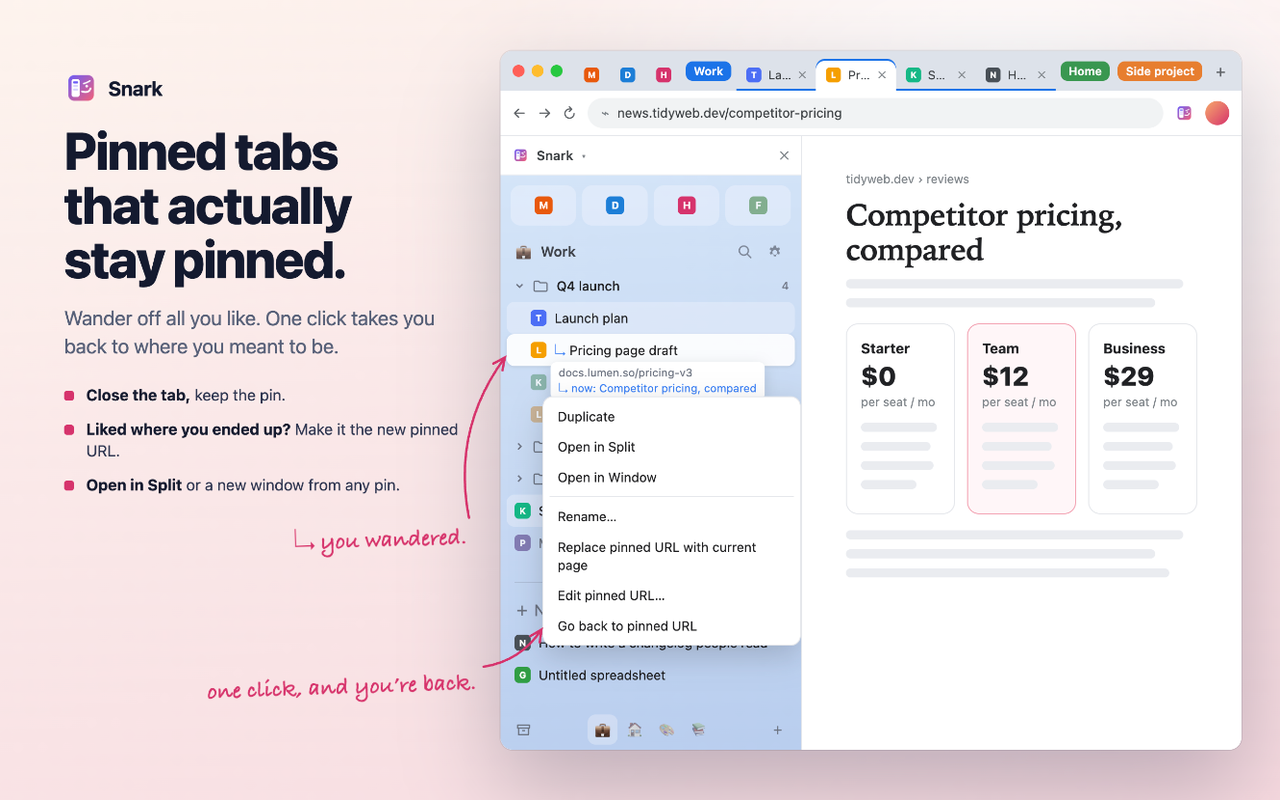
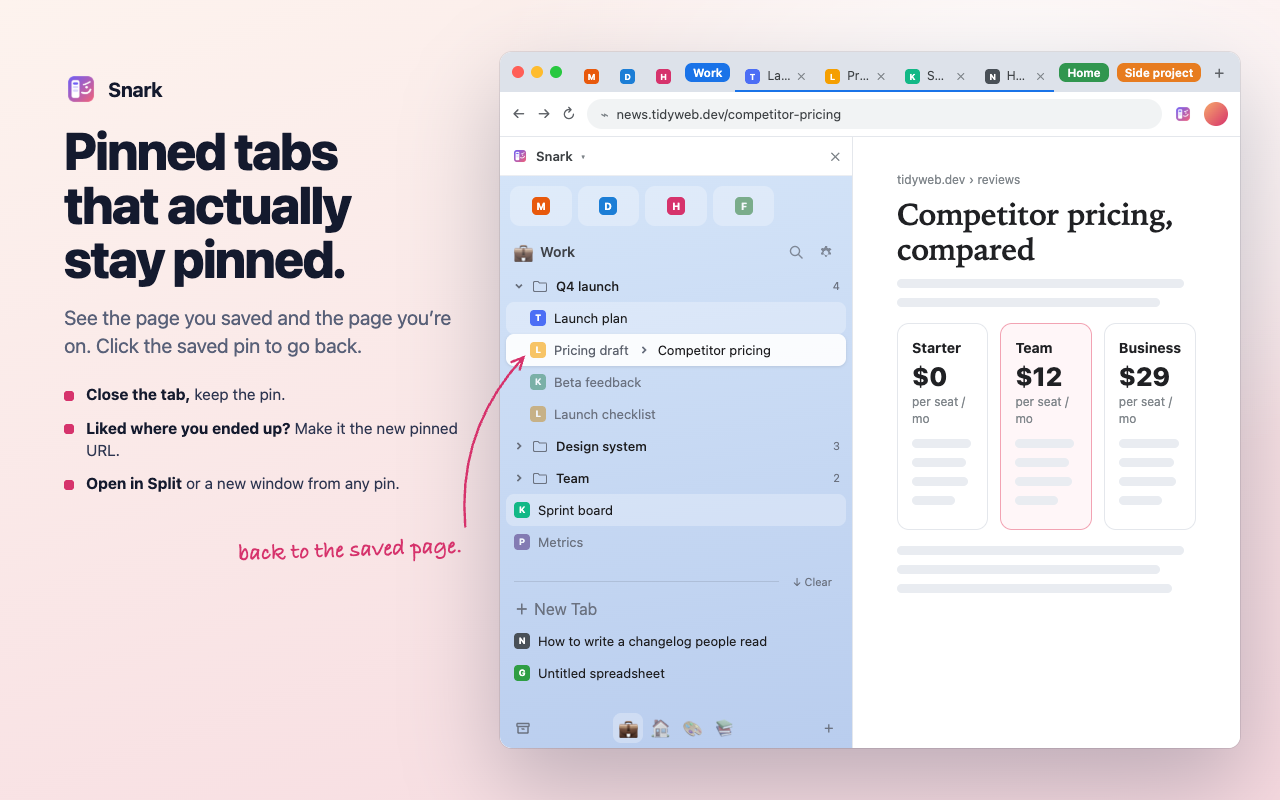
Refresh the Chrome Store listing for Snark 1.4.3

diff --git a/docs/STORE_LISTING.md b/docs/STORE_LISTING.md
@@ -19,7 +19,7 @@ The best part of a browser that was promised to be free forever, now for the one
 Snark turns Chrome's side panel into a calm home for your tabs:
 
 • Spaces you swipe between. Each one is a Chrome tab group with its own colors, icon and gradient. Switching spaces brings back the tab you were on and folds the others away.
-• Pinned tabs that stay put. Browse freely inside a pinned tab. Close it, and clicking the pin brings you back to the page you pinned. Rename pins so they keep your label even when the page title changes.
+• Pinned tabs that stay put. Browse freely and see the saved pin beside your current page. Click the saved pin to go back, or reopen it later if you’ve closed the tab. Rename pins to give them labels that stay put as you browse.
 • Nested folders. Organize pins as deep as you like, and drag and drop everything.
 • Search Snark (⌘K, or Ctrl+Shift+K on Windows). A search box centered over the page. Type a few letters to find any pin, folder or tab; Snark opens it and shows you where it lives.
 • Favorites. A row of icons for the sites you live in, shared by every space and window.
@@ -75,7 +75,7 @@ Upload in this order. They're built from Snark's real sidebar and search UI with
 |---|---|---|
 | `screenshot-1-overview.png` | Screenshot 1 (1280×800) | "Your tabs, bookmarked, in spaces." The sidebar you miss, in the browser you already use. |
 | `screenshot-2-spaces.png` | Screenshot 2 | "Swipe between spaces. Feel organized." Each space is a real tab group. |
-| `screenshot-3-pinned.png` | Screenshot 3 | "Pinned tabs that actually stay pinned." Wander off; one click back. |
+| `screenshot-3-pinned.png` | Screenshot 3 | "Pinned tabs that actually stay pinned." The saved pin sits beside the current page. |
 | `screenshot-4-search.png` | Screenshot 4 | "⌘K. Because you have 214 tabs." Search that shows you where you put it. |
 | `screenshot-5-agent.png` | Screenshot 5 | "Hand the mess to your AI." The agent folder, as a three-step story. |
 | `promo-440x280.png` | Small promo tile | Snark · "Tabs, tamed. Mostly." |
